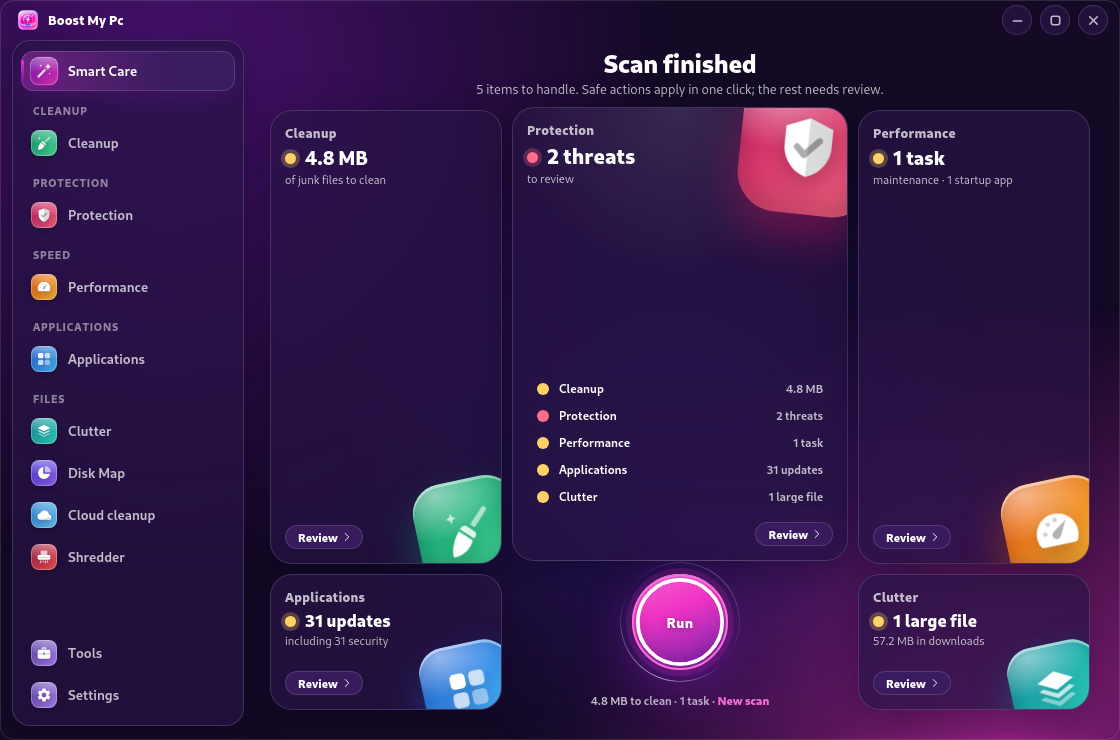
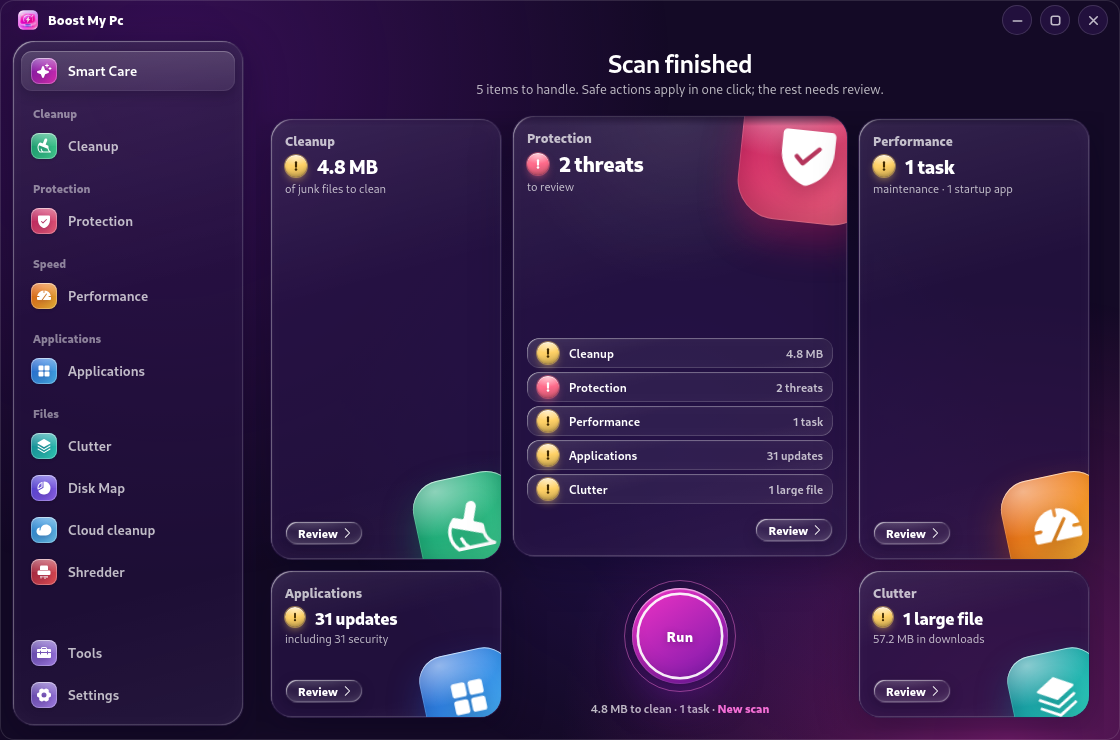
Boost My Pc 2.6.0 : nouveau design en verre liquide

diff --git a/README.md b/README.md
@@ -90,10 +90,10 @@ Download the installers from the [latest release](https://github.com/Finoana-Ran
 
 ```bash
 # Debian / Ubuntu / Mint / Pop!_OS
-sudo apt install ./Boost-My-Pc-2.5.0.deb
+sudo apt install ./Boost-My-Pc-2.6.0.deb
 
 # All distributions
-chmod +x Boost-My-Pc-2.5.0.AppImage && ./Boost-My-Pc-2.5.0.AppImage
+chmod +x Boost-My-Pc-2.6.0.AppImage && ./Boost-My-Pc-2.6.0.AppImage
 ```
 
 On Ubuntu 22.04 and later, AppImages need FUSE 2: `sudo apt install libfuse2t64` (`libfuse2` on 22.04). The first time an AppImage starts, it adds itself to the application menu (entry and icons in `~/.local/share`), on any distribution; moving the file updates the entry. The .deb installs its own entry and icons.
@@ -104,7 +104,7 @@ The window has rounded corners and its own buttons on Linux (resize it from any 
 
 ### Windows
 
-1. Download `Boost-My-Pc-Setup-2.5.0.exe` from the latest release.
+1. Download `Boost-My-Pc-Setup-2.6.0.exe` from the latest release.
 2. Run it and accept the Windows prompt. The setup wizard (in French) lets you choose the install folder, then creates **Boost My Pc** shortcuts on the desktop and in the Start menu, and launches the app.
 3. The installer is not code-signed yet, so Windows SmartScreen may show *Windows protected your PC*. Select **More info**, then **Run anyway**.
 
